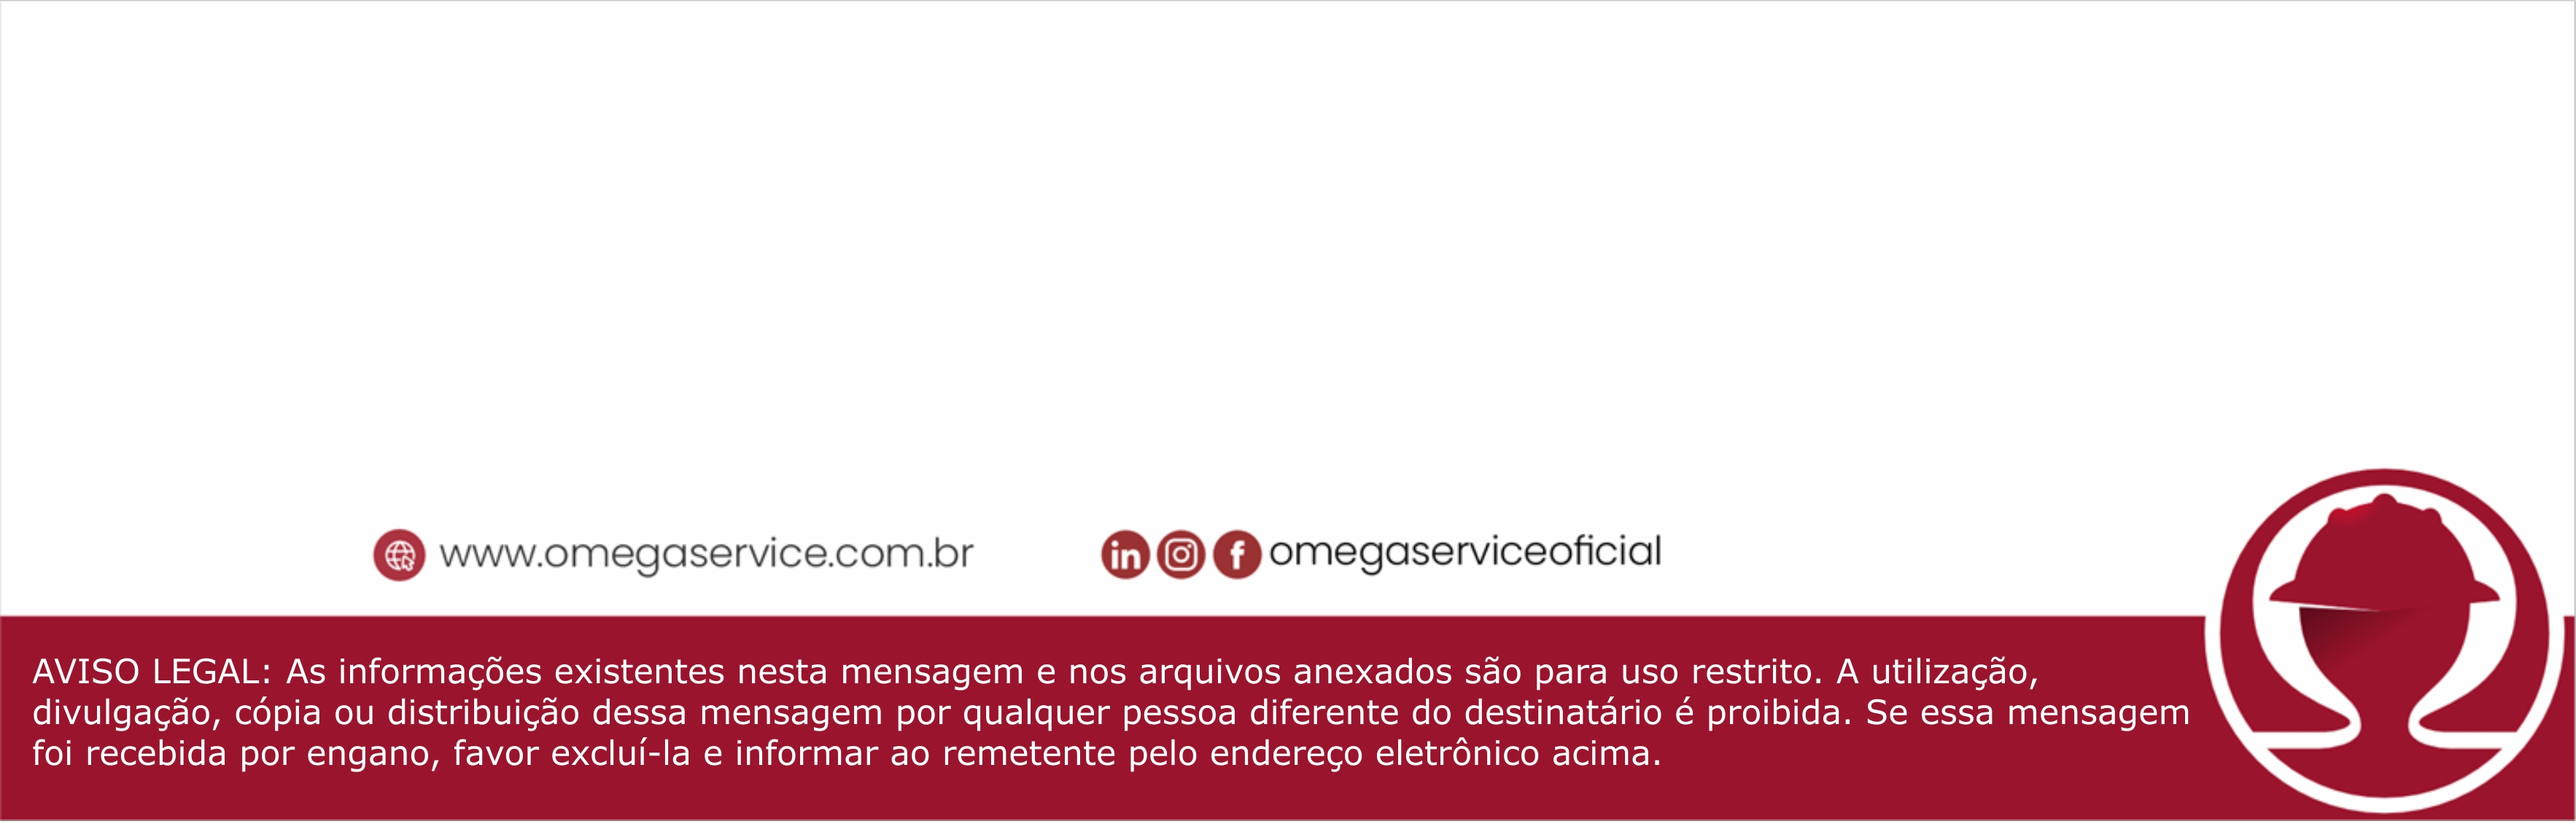
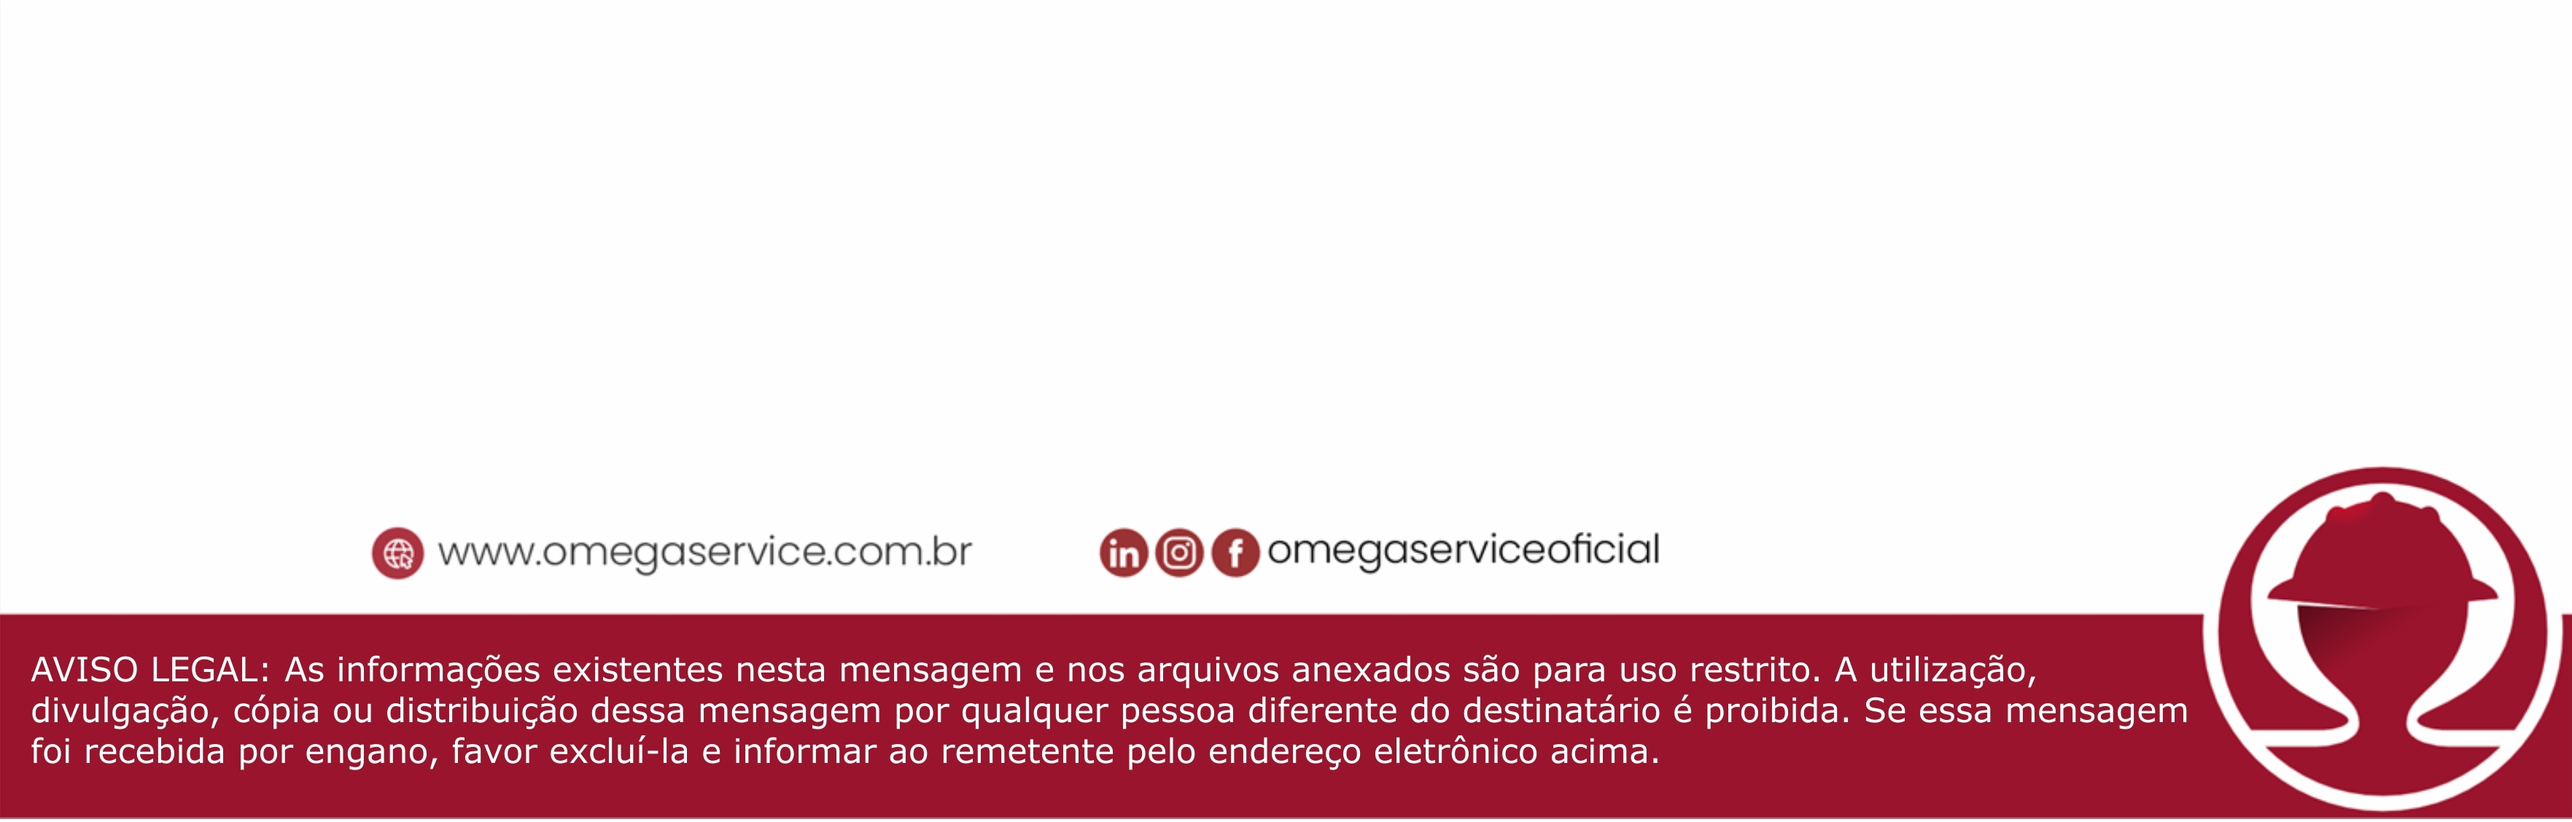
fix(config): alinhar assinatura eletrônica com localhost em produção
URLs de fundo e fontes usam PublicWebBase (/public no Hostinger), JPG sem borda cinza, pré-visualização sem moldura e diagnóstico de assets da assinatura.

diff --git a/app/Support/AssinaturaEmailImagem.php b/app/Support/AssinaturaEmailImagem.php
@@ -1,0 +1,159 @@
+<?php
+
+namespace App\Support;
+
+final class AssinaturaEmailImagem
+{
+    /**
+     * Remove borda cinza externa do JPG de fundo (ex.: 2px nas laterais).
+     *
+     * @return array{x: int, y: int, width: int, height: int}|null
+     */
+    public static function detectarRecorteSemBorda(\GdImage $imagem): ?array
+    {
+        $largura = imagesx($imagem);
+        $altura = imagesy($imagem);
+
+        if ($largura < 10 || $altura < 10) {
+            return null;
+        }
+
+        $centroX = (int) floor($largura / 2);
+        $centroY = (int) floor($altura / 2);
+
+        $topo = self::primeiraLinhaConteudo($imagem, $largura, $altura, $centroX, true);
+        $esquerda = self::primeiraColunaConteudo($imagem, $largura, $altura, $centroY, true);
+        $base = self::primeiraLinhaConteudo($imagem, $largura, $altura, $centroX, false);
+        $direita = self::primeiraColunaConteudo($imagem, $largura, $altura, $centroY, false);
+
+        if ($topo === null || $esquerda === null || $base === null || $direita === null) {
+            return null;
+        }
+
+        $larguraRecorte = $direita - $esquerda + 1;
+        $alturaRecorte = $base - $topo + 1;
+
+        if ($larguraRecorte < 50 || $alturaRecorte < 20) {
+            return null;
+        }
+
+        return [
+            'x' => $esquerda,
+            'y' => $topo,
+            'width' => $larguraRecorte,
+            'height' => $alturaRecorte,
+        ];
+    }
+
+    public static function recortarSemBorda(\GdImage $imagem): \GdImage
+    {
+        $recorte = self::detectarRecorteSemBorda($imagem);
+        if ($recorte === null) {
+            return $imagem;
+        }
+
+        $recortada = imagecrop($imagem, $recorte);
+        if ($recortada === false) {
+            return $imagem;
+        }
+
+        return $recortada;
+    }
+
+    public static function caminhoFundoPublico(): string
+    {
+        return public_path('images/email/assinatura-eletronica-bg.jpg');
+    }
+
+    /** Garante arquivo de fundo sem borda cinza (regrava o JPG em public se necessário). */
+    public static function garantirFundoSemBordaNoPublico(): void
+    {
+        $caminho = self::caminhoFundoPublico();
+        if (! is_file($caminho)) {
+            return;
+        }
+
+        $origem = @imagecreatefromjpeg($caminho);
+        if ($origem === false) {
+            return;
+        }
+
+        $recorte = self::detectarRecorteSemBorda($origem);
+        if ($recorte === null || ($recorte['x'] <= 0 && $recorte['y'] <= 0
+            && $recorte['width'] >= imagesx($origem) - 1 && $recorte['height'] >= imagesy($origem) - 1)) {
+            imagedestroy($origem);
+
+            return;
+        }
+
+        $semBorda = self::recortarSemBorda($origem);
+        if ($semBorda !== $origem) {
+            imagedestroy($origem);
+        }
+
+        imagejpeg($semBorda, $caminho, 98);
+        imagedestroy($semBorda);
+    }
+
+    private static function pixelEhFundoClaro(\GdImage $imagem, int $x, int $y): bool
+    {
+        $cor = imagecolorat($imagem, $x, $y);
+        $r = ($cor >> 16) & 255;
+        $g = ($cor >> 8) & 255;
+        $b = $cor & 255;
+
+        return $r > 240 && $g > 240 && $b > 240;
+    }
+
+    private static function primeiraLinhaConteudo(
+        \GdImage $imagem,
+        int $largura,
+        int $altura,
+        int $amostraX,
+        bool $doTopo,
+    ): ?int {
+        if ($doTopo) {
+            for ($y = 0; $y < $altura; $y++) {
+                if (self::pixelEhFundoClaro($imagem, $amostraX, $y)) {
+                    return $y;
+                }
+            }
+
+            return null;
+        }
+
+        for ($y = $altura - 1; $y >= 0; $y--) {
+            if (self::pixelEhFundoClaro($imagem, $amostraX, $y)) {
+                return $y;
+            }
+        }
+
+        return null;
+    }
+
+    private static function primeiraColunaConteudo(
+        \GdImage $imagem,
+        int $largura,
+        int $altura,
+        int $amostraY,
+        bool $daEsquerda,
+    ): ?int {
+        if ($daEsquerda) {
+            for ($x = 0; $x < $largura; $x++) {
+                if (self::pixelEhFundoClaro($imagem, $x, $amostraY)) {
+                    return $x;
+                }
+            }
+
+            return null;
+        }
+
+        for ($x = $largura - 1; $x >= 0; $x--) {
+            if (self::pixelEhFundoClaro($imagem, $x, $amostraY)) {
+                return $x;
+            }
+        }
+
+        return null;
+    }
+}

diff --git a/resources/views/configuracoes/email.blade.php b/resources/views/configuracoes/email.blade.php
@@ -54,6 +54,26 @@
     <section class="mb-6 overflow-hidden rounded-3xl border border-zinc-200/80 bg-white shadow-lg shadow-zinc-200/50 ring-1 ring-zinc-100">
         <div class="flex flex-wrap items-start justify-between gap-3 border-b border-zinc-100 bg-gradient-to-r from-zinc-50/90 to-white px-6 py-5">
             <div>
+                <h2 class="text-lg font-bold text-zinc-900">Gerador de Assinatura Eletrônica</h2>
+                <p class="mt-1 max-w-2xl text-sm text-zinc-500">
+                    Monte a assinatura corporativa (fundo Omega, Arial, exportação HTML e JPEG) com dados do colaborador ou preenchimento manual.
+                </p>
+            </div>
+            <span class="rounded-full bg-brand-burgundy-soft px-3 py-1 text-[10px] font-bold uppercase tracking-wide text-brand-burgundy">RH / comunicação</span>
+        </div>
+        <div class="flex flex-wrap items-center gap-3 p-6 sm:p-8">
+            <a href="{{ route('configuracoes.email.assinatura.index') }}"
+               class="inline-flex h-11 items-center gap-2 rounded-xl bg-brand-burgundy px-5 text-sm font-bold text-white shadow-md shadow-brand-burgundy/20 transition hover:bg-brand-burgundy-dark">
+                <i data-lucide="signature" class="h-4 w-4"></i>
+                Abrir gerador de assinatura
+            </a>
+            <p class="text-xs text-zinc-500">Pré-visualização 583×186 px · mesmo layout em localhost e produção (assets em <code class="rounded bg-zinc-100 px-1">/public/images/email</code>).</p>
+        </div>
+    </section>
+
+    <section class="mb-6 overflow-hidden rounded-3xl border border-zinc-200/80 bg-white shadow-lg shadow-zinc-200/50 ring-1 ring-zinc-100">
+        <div class="flex flex-wrap items-start justify-between gap-3 border-b border-zinc-100 bg-gradient-to-r from-zinc-50/90 to-white px-6 py-5">
+            <div>
                 <h2 class="text-lg font-bold text-zinc-900">Servidor de e-mail (SMTP)</h2>
                 <p class="mt-1 max-w-2xl text-sm text-zinc-500">
                     Configure o envio de e-mails do sistema. A senha SMTP só é alterada se você preencher o campo abaixo.

diff --git a/app/Console/Commands/AssetsDiagnosticoCommand.php b/app/Console/Commands/AssetsDiagnosticoCommand.php
@@ -57,6 +57,20 @@ class AssetsDiagnosticoCommand extends Command
 
         $this->info('Todos os arquivos do manifest existem em public/build/');
 
+        $assinaturaAssets = [
+            'images/email/assinatura-eletronica-bg.jpg',
+            'fonts/Arial.ttf',
+            'fonts/Arial-Bold.ttf',
+        ];
+        foreach ($assinaturaAssets as $relative) {
+            if (! is_file(public_path($relative))) {
+                $this->error('Arquivo ausente (assinatura eletrônica): public/'.$relative);
+
+                return self::FAILURE;
+            }
+        }
+        $this->info('Assets da assinatura eletrônica presentes em public/');
+
         $appUrl = rtrim((string) config('app.url'), '/');
         $this->line('APP_URL: '.$appUrl);
         $this->line('force_public_url: '.(config('app.force_public_url') ? 'true' : 'false'));
@@ -89,8 +103,15 @@ class AssetsDiagnosticoCommand extends Command
         $this->line('PublicWebBase (simulação /public/...): '.(PublicWebBase::shouldUse($request) ? 'SIM' : 'NÃO'));
         $this->line('rootUrl: '.(PublicWebBase::rootUrl($request) ?? '(null)'));
 
+        $assinaturaUrls = [
+            PublicWebBase::assetUrl('images/email/assinatura-eletronica-bg.jpg'),
+            PublicWebBase::assetUrl('fonts/Arial.ttf'),
+        ];
+        $this->line('Assinatura BG: '.$assinaturaUrls[0]);
+        $this->line('Assinatura fonte: '.$assinaturaUrls[1]);
+
         if ($this->option('curl')) {
-            $this->verificarHttpExterno([$cssUrl, $jsUrl]);
+            $this->verificarHttpExterno(array_merge([$cssUrl, $jsUrl], $assinaturaUrls));
         } else {
             $this->line('Dica: php artisan assets:diagnostico --curl');
         }

diff --git a/app/Services/EmailAssinaturaJpegService.php b/app/Services/EmailAssinaturaJpegService.php
@@ -2,6 +2,7 @@
 
 namespace App\Services;
 
+use App\Support\AssinaturaEmailImagem;
 use RuntimeException;
 
 /**
@@ -89,7 +90,7 @@ final class EmailAssinaturaJpegService
 
     private function criarCanvasComFundo(int $largura, int $altura): \GdImage
     {
-        $caminhoBg = public_path('images/email/assinatura-eletronica-bg.jpg');
+        $caminhoBg = AssinaturaEmailImagem::caminhoFundoPublico();
         if (! is_file($caminhoBg)) {
             throw new RuntimeException('Imagem de fundo da assinatura não encontrada.');
         }
@@ -99,24 +100,29 @@ final class EmailAssinaturaJpegService
             throw new RuntimeException('Não foi possível ler o fundo da assinatura.');
         }
 
+        $fundo = AssinaturaEmailImagem::recortarSemBorda($origem);
+        if ($fundo !== $origem) {
+            imagedestroy($origem);
+        }
+
         $canvas = imagecreatetruecolor($largura, $altura);
         imagealphablending($canvas, true);
         imagesavealpha($canvas, false);
 
         imagecopyresampled(
             $canvas,
-            $origem,
+            $fundo,
             0,
             0,
             0,
             0,
             $largura,
             $altura,
-            imagesx($origem),
-            imagesy($origem)
+            imagesx($fundo),
+            imagesy($fundo)
         );
 
-        imagedestroy($origem);
+        imagedestroy($fundo);
 
         return $canvas;
     }

diff --git a/tests/Feature/EmailAssinaturaEletronicaTest.php b/tests/Feature/EmailAssinaturaEletronicaTest.php
@@ -57,6 +57,32 @@ class EmailAssinaturaEletronicaTest extends TestCase
         $this->assertStringContainsString('assinatura-eletronica-bg.jpg', $html);
     }
 
+    public function test_preview_urls_incluem_public_em_producao_hostinger(): void
+    {
+        config([
+            'app.url' => 'https://omegaadm.feston.net.br',
+            'app.force_public_url' => true,
+        ]);
+
+        $user = User::factory()->create();
+
+        $response = $this->actingAs($user)
+            ->postJson(route('configuracoes.email.assinatura.preview'), [
+                'nome' => 'Maria da Silva',
+                'funcao' => 'Eletricista II',
+                'contrato' => '286',
+                'telefone' => '(94) 99236-4397',
+                'email' => 'maria@omegaservice.com.br',
+            ]);
+
+        $response->assertOk();
+        $html = (string) $response->json('html');
+
+        $this->assertStringContainsString('/public/images/email/assinatura-eletronica-bg.jpg', $html);
+        $this->assertStringContainsString('/public/fonts/Arial.ttf', $html);
+        $this->assertStringContainsString('/public/fonts/Arial-Bold.ttf', $html);
+    }
+
     public function test_dados_colaborador_json(): void
     {
         $user = User::factory()->create();

diff --git a/app/Services/EmailAssinaturaService.php b/app/Services/EmailAssinaturaService.php
@@ -3,6 +3,7 @@
 namespace App\Services;
 
 use App\Models\Colaborador;
+use App\Support\PublicWebBase;
 use App\Support\TextoApresentacaoAssinatura;
 
 final class EmailAssinaturaService
@@ -84,13 +85,13 @@ final class EmailAssinaturaService
 
     public function backgroundUrl(): string
     {
-        return $this->assetUrlAbsoluto('images/email/assinatura-eletronica-bg.jpg');
+        return PublicWebBase::assetUrl('images/email/assinatura-eletronica-bg.jpg');
     }
 
     public function cssFonteArial(): string
     {
-        $normal = $this->assetUrlAbsoluto('fonts/Arial.ttf');
-        $bold = $this->assetUrlAbsoluto('fonts/Arial-Bold.ttf');
+        $normal = PublicWebBase::assetUrl('fonts/Arial.ttf');
+        $bold = PublicWebBase::assetUrl('fonts/Arial-Bold.ttf');
 
         return <<<HTML
 <style type="text/css">
@@ -133,14 +134,5 @@ HTML;
         ])->render();
 
         return $this->cssFonteArial().$corpo;
-    }
-
-    private function assetUrlAbsoluto(string $path): string
-    {
-        $asset = asset($path);
-
-        return str_starts_with($asset, 'http')
-            ? $asset
-            : rtrim((string) config('app.url'), '/').$asset;
     }
 }

diff --git a/resources/views/configuracoes/assinatura-eletronica.blade.php b/resources/views/configuracoes/assinatura-eletronica.blade.php
@@ -131,8 +131,8 @@
             </div>
 
             <div class="flex flex-col items-start gap-4 p-6">
-                <div id="preview-wrap" class="overflow-hidden rounded-lg border border-zinc-200 bg-zinc-100 shadow-inner" style="width: {{ $largura }}px; max-width: 100%;">
-                    <div id="preview-assinatura" class="normal-case bg-white" style="width: {{ $largura }}px; height: {{ $altura }}px; text-transform: none; font-family: Arial, sans-serif;">
+                <div id="preview-wrap" class="overflow-hidden" style="width: {{ $largura }}px; max-width: 100%; line-height: 0;">
+                    <div id="preview-assinatura" class="normal-case" style="width: {{ $largura }}px; height: {{ $altura }}px; text-transform: none; font-family: Arial, sans-serif; border: 0; outline: 0;">
                         <p class="flex h-full items-center justify-center text-center text-xs text-zinc-400 px-4">
                             Selecione um colaborador ou preencha os campos para gerar a assinatura.
                         </p>

diff --git a/app/Http/Controllers/EmailAssinaturaController.php b/app/Http/Controllers/EmailAssinaturaController.php
@@ -3,6 +3,7 @@
 namespace App\Http\Controllers;
 
 use App\Models\Colaborador;
+use App\Support\AssinaturaEmailImagem;
 use App\Services\EmailAssinaturaJpegService;
 use App\Services\EmailAssinaturaService;
 use Illuminate\Http\JsonResponse;
@@ -14,6 +15,8 @@ final class EmailAssinaturaController extends Controller
 {
     public function index(): View
     {
+        AssinaturaEmailImagem::garantirFundoSemBordaNoPublico();
+
         $colaboradores = Colaborador::query()
             ->orderBy('nome')
             ->get(['id', 'nome', 'matricula', 'cargo', 'centro_custo', 'telefone', 'email', 'status']);
